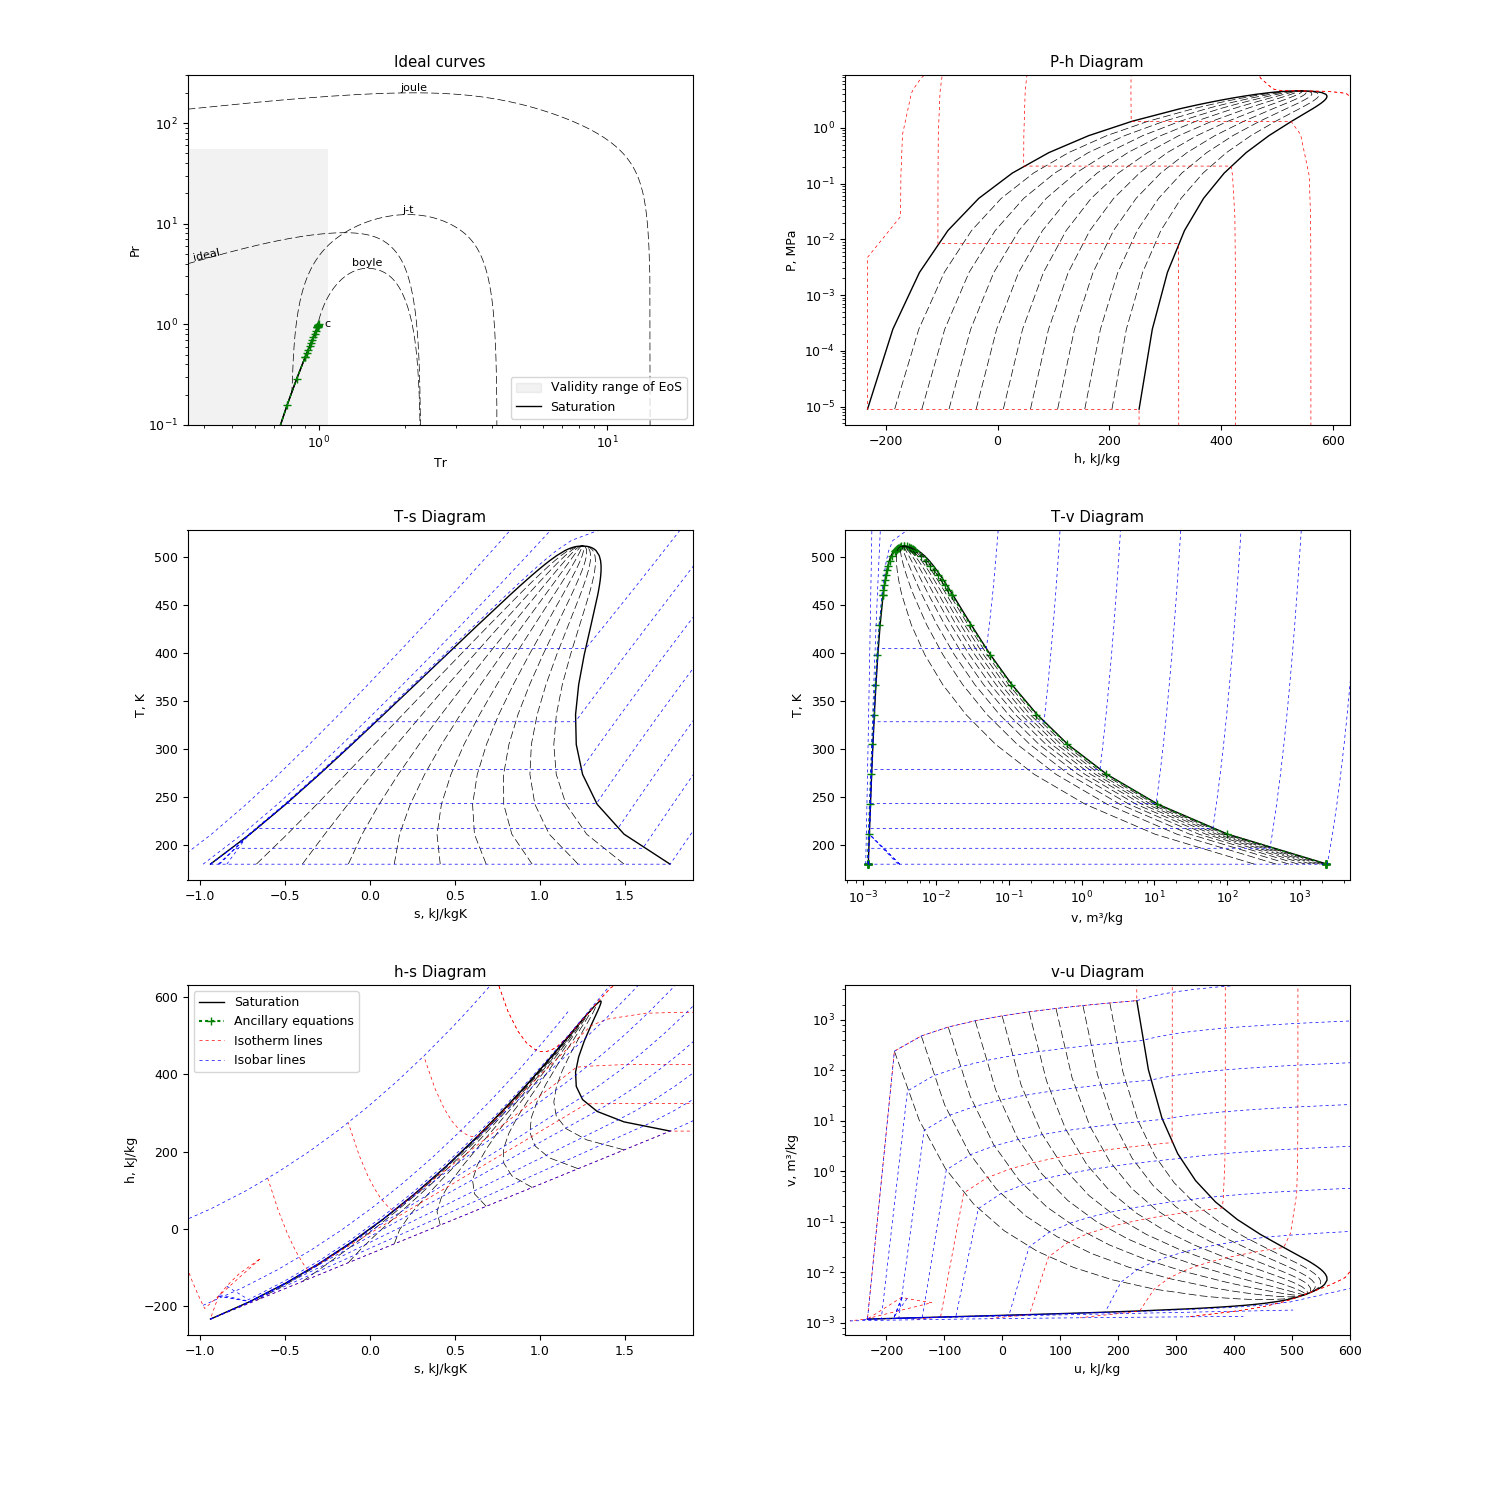
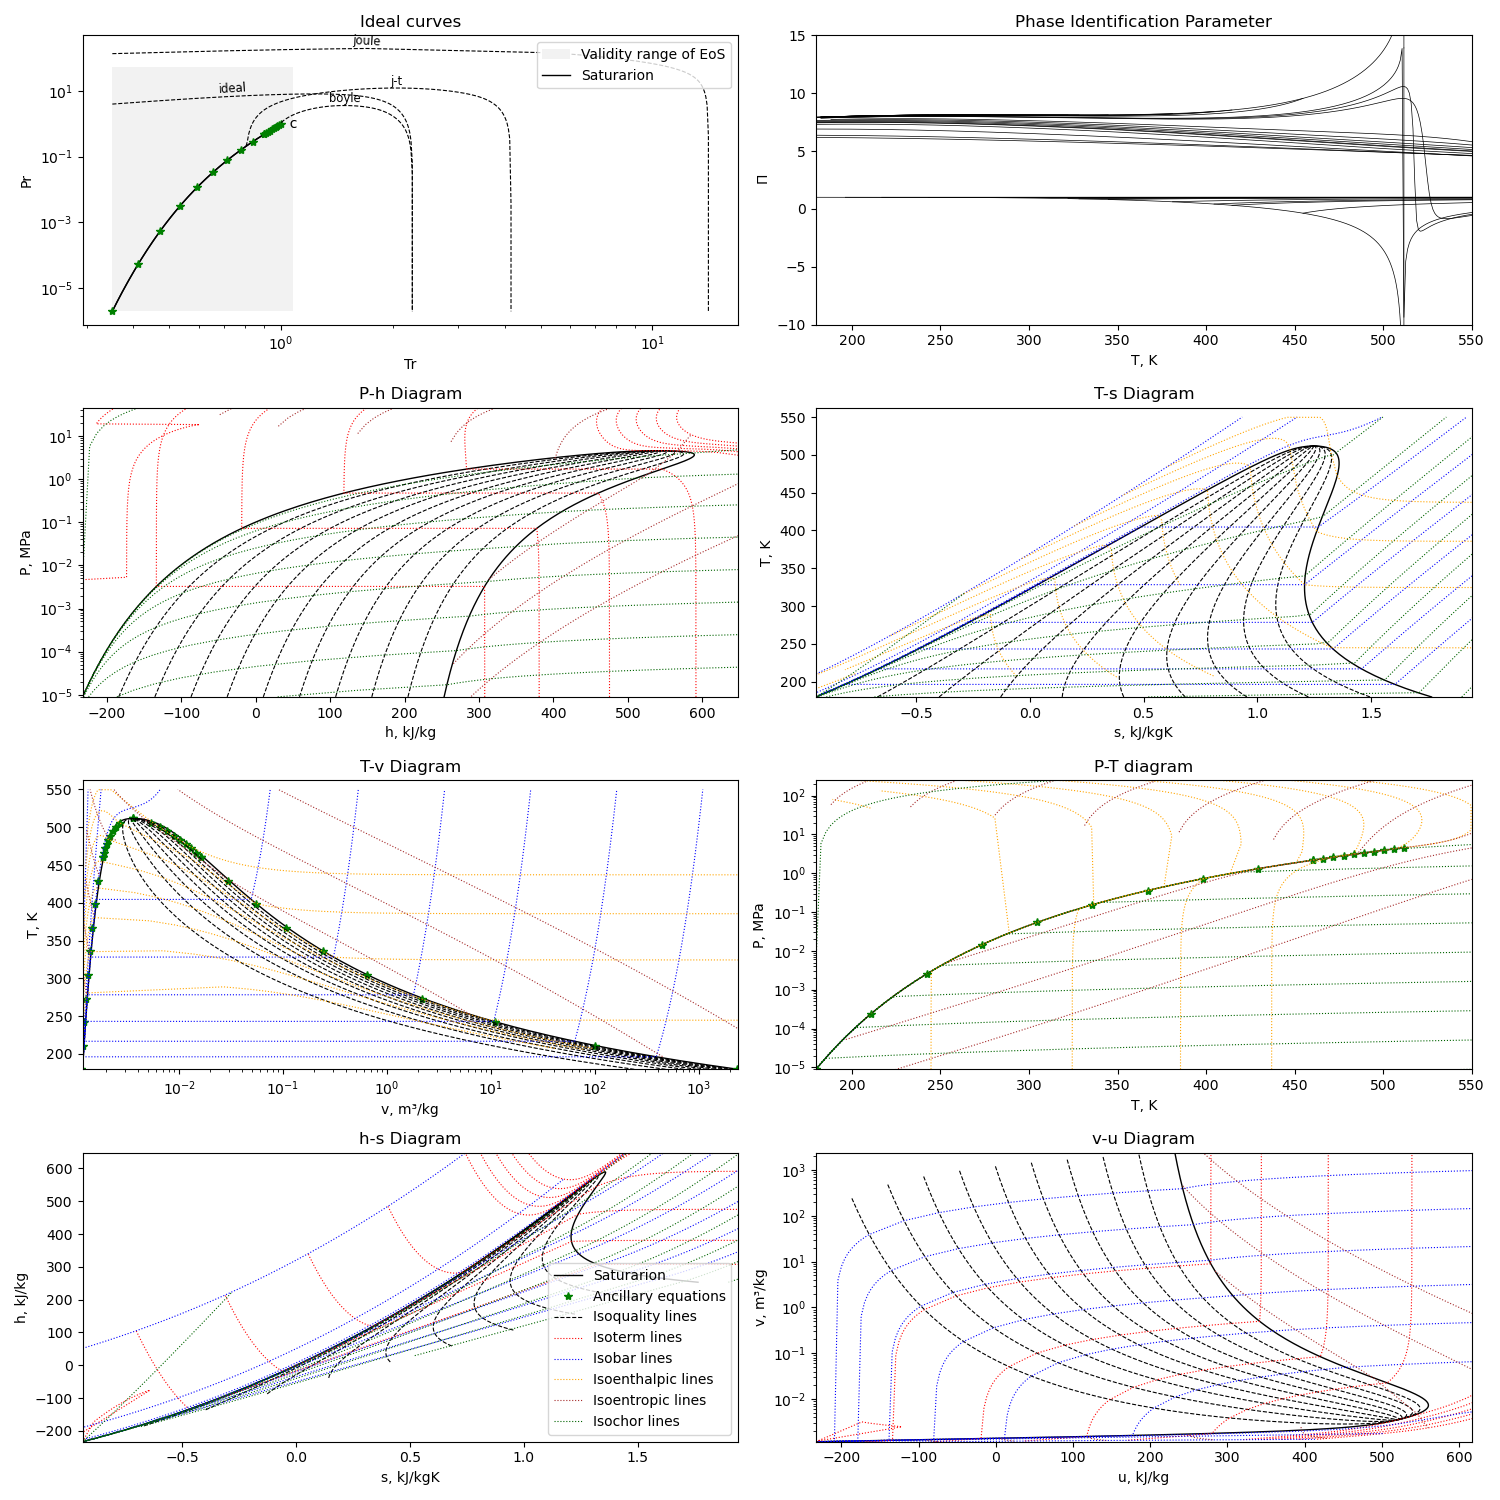
Update naphthenes images for mEoS documentation including PIP plot

diff --git a/.script/plotMEoS.py b/.script/plotMEoS.py
@@ -315,7 +315,7 @@ umax += abs(umax * 0.1)
 smax = max(svap)
 smax += abs(smax * 0.1)
 
-# ax_Ideal.set_ylim(bottom=0.1*pmin/fluid.Pc)
+# ax_Ideal.set_ylim(bottom=0.01, top=)
 ax_PIP.set_ylim(-10, 15)
 ax_PIP.set_xlim(Tmin, min(2*fluid.Tc, Tmax))
 ax_Ph.set_xlim(Pt.h.kJkg, hmax)
@@ -333,7 +333,7 @@ ax_vu.set_ylim(Pt.v, Vt.v)
 
 # Ancillary equation
 Tanc = np.concatenate([
-    np.linspace(fluid.Tt, 0.9 * Tc, 10),
+    np.linspace(max(fluid.Tt, fluid()._constants["Tmin"]), 0.9 * Tc, 10),
     np.linspace(0.9 * Tc, Tc, 10, endpoint=True)])
 Panc = [fluid()._Vapor_Pressure(t) / fluid.Pc for t in Tanc]
 ax_Ideal.plot(Tanc / Tc, Panc, label="Ancillary Vapor Pressure", **anc_kw)

diff --git a/lib/meos.py b/lib/meos.py
@@ -5268,6 +5268,9 @@ class MEoS(ThermoAdvanced):
                     # Eq 8
                     F = f**0.5/h**(2/3)*(M/M0)**0.5
 
+                    if T0 <= ref.eq[0]["Tmin"]:
+                        T0 = ref.eq[0]["Tmin"]
+
                     mur = ref()._Viscosity(rho0*psi, T0, None, visco0, True)
                     mu += mur*F
 

diff --git a/lib/mEoS/Cyclopropane.py b/lib/mEoS/Cyclopropane.py
@@ -48,6 +48,7 @@ class Cyclopropane(MEoS):
                   -0.77223700e-7/8.3143*42.081, 0.40538000e-10/8.3143*42.081],
            "pow": [1, 2, 3, 4]}
 
+    # FIXME: Bad saturation point
     polt = {
         "__type__": "Helmholtz",
         "__name__": "Helmholtz equation of state for cyclopropane of Polt et "
